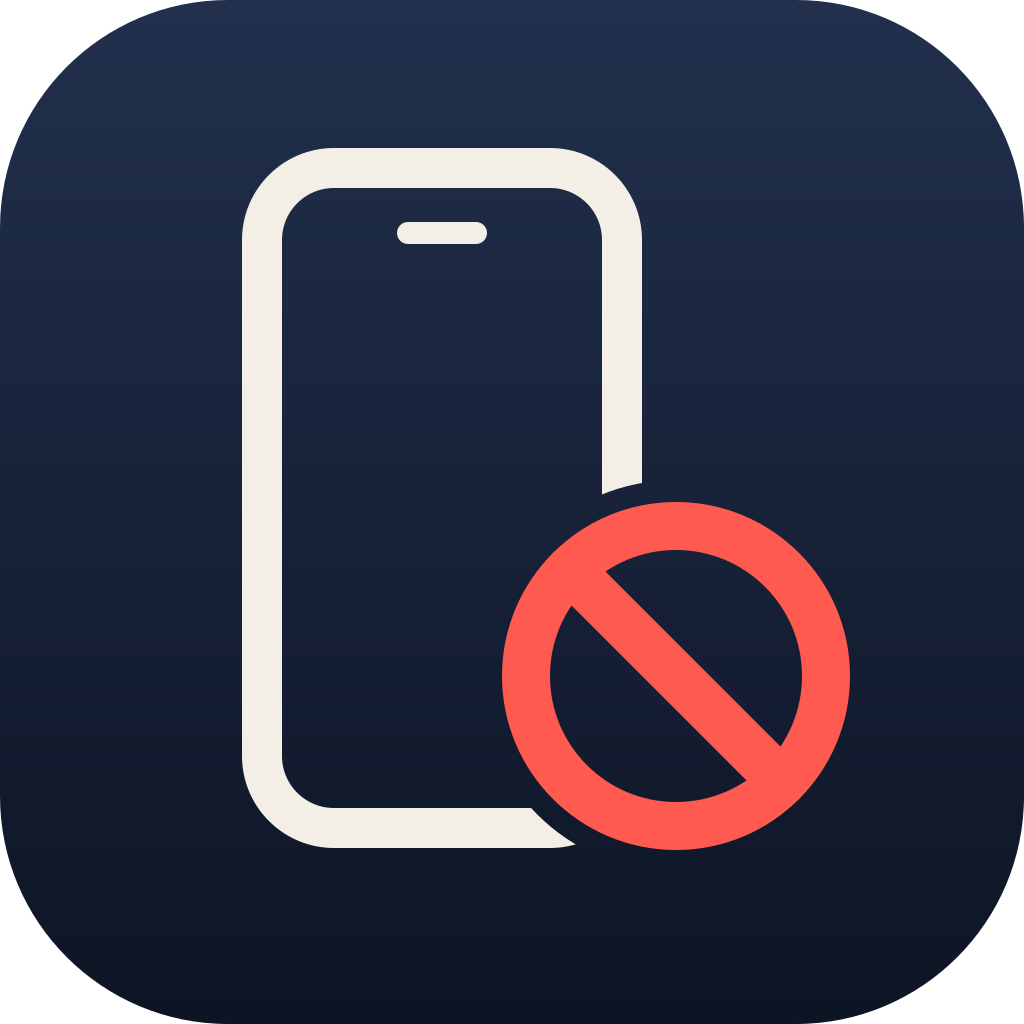
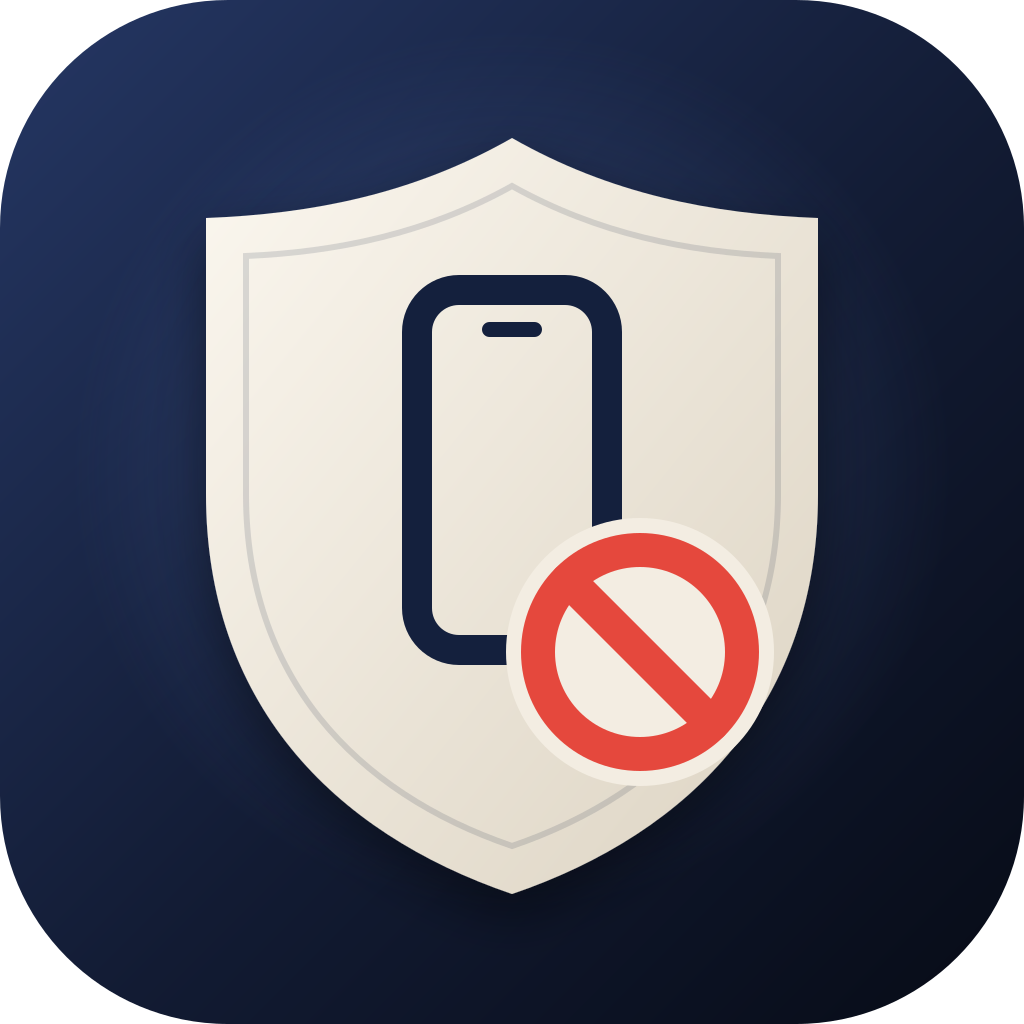
README nuevo, icono con escudo, diagrama y captura de la pantalla de suspendido

diff --git a/README.md b/README.md
@@ -1,41 +1,110 @@
 <p align="center">
-  <img src="assets/icon.svg" width="128" height="128" alt="Icono de NonGrata: un iPhone con la señal de prohibido">
+  <img src="assets/icon.svg" width="140" height="140" alt="Icono de NonGrata: un escudo con un iPhone y la señal de prohibido">
 </p>
 
-# NonGrata
+<h1 align="center">NonGrata</h1>
 
-Baneo por dispositivo y por cuenta de Apple para apps iOS, sin tocar el backend de la app.
+<p align="center">
+  <strong>Baneo por dispositivo y por cuenta de Apple para apps iOS.</strong><br>
+  Quien ya no es bienvenido no vuelve a entrar, aunque reinstale, cree otra cuenta o borre el iPhone.
+</p>
 
-Cuando alguien crea cuentas en cadena (cierra sesión y abre otra, reinstala, borra el iPhone),
-banear la cuenta no basta. NonGrata recuerda el dispositivo con varias capas que sobreviven a
-cosas distintas: el `identifierForVendor`, un identificador propio en el Keychain, el usuario de
-iCloud y los dos bits de [DeviceCheck](https://developer.apple.com/documentation/devicecheck) que
-Apple guarda en sus servidores, que sobreviven incluso a borrar el iPhone.
+<p align="center">
+  <img src="https://img.shields.io/badge/Swift-6-F05138?logo=swift&logoColor=white" alt="Swift 6">
+  <img src="https://img.shields.io/badge/iOS-17%2B-000000?logo=apple&logoColor=white" alt="iOS 17 o superior">
+  <img src="https://img.shields.io/badge/SPM-compatible-14203D" alt="Swift Package Manager">
+  <img src="https://img.shields.io/badge/Cloudflare-Workers%20%2B%20D1-F38020?logo=cloudflare&logoColor=white" alt="Cloudflare Workers y D1">
+  <a href="https://github.com/WilderLopez/nongrata/tags"><img src="https://img.shields.io/github/v/tag/WilderLopez/nongrata?label=versi%C3%B3n&color=E5483D" alt="Versión"></a>
+  <a href="LICENSE"><img src="https://img.shields.io/badge/licencia-MIT-3E63B8" alt="Licencia MIT"></a>
+</p>
 
-Tres piezas:
+<p align="center">
+  <a href="#cómo-funciona">Cómo funciona</a> ·
+  <a href="#inicio-rápido">Inicio rápido</a> ·
+  <a href="#uso-en-la-app">Uso en la app</a> ·
+  <a href="#administración">Administración</a> ·
+  <a href="#documentación">Documentación</a>
+</p>
 
-| Pieza | Qué es |
+---
+
+## El problema
+
+Alguien abusa de tu app, lo baneas y a los dos días vuelve con otra cuenta. Cierra sesión y abre
+otra, reinstala la app, borra el iPhone. Banear la cuenta no basta, y la IP o el correo tampoco
+sirven: las IPs las comparten cientos de usuarios de un mismo operador y los correos son
+desechables.
+
+NonGrata recuerda **el dispositivo y la cuenta de Apple**, con varias capas que sobreviven a cosas
+distintas. La más fuerte son los dos bits de
+[DeviceCheck](https://developer.apple.com/documentation/devicecheck) que Apple guarda en sus
+servidores para cada dispositivo, y que siguen ahí incluso después de borrar el iPhone.
+
+## Cómo funciona
+
+<p align="center">
+  <img src="assets/como-funciona.svg" alt="La app manda hashes y tokens al Worker, que consulta su lista en D1 y el bit0 de DeviceCheck y responde ok o blocked. Cuatro capas: idfv sobrevive a cerrar sesión, installId a reinstalar, iCloud a borrar el iPhone y bit0 a borrar el iPhone y cambiar de cuenta de Apple.">
+</p>
+
+Son cuatro piezas en un mismo repo:
+
+| Pieza | Qué hace |
 |---|---|
-| SDK Swift (`NonGrata`, `NonGrataUI`) | Paquete SPM para iOS 17+. Comprueba el dispositivo y devuelve `allowed`, `blocked(ref:)` o `unknown`. `NonGrataUI` es opcional: la pantalla de suspendido. |
-| Worker (`worker/`) | Cloudflare Worker con D1. Decide con la lista de baneos y con DeviceCheck. Un despliegue por app. |
-| CLI (`cli/`) | Banear, desbanear y consultar desde la terminal. |
+| **SDK Swift** (`NonGrata`) | Reúne los identificadores, los convierte en hashes y pregunta al Worker. Recuerda el veredicto aunque no haya red. |
+| **Pantalla opcional** (`NonGrataUI`) | La pantalla de "Acceso suspendido" con el código de soporte, en español e inglés. |
+| **Worker** (`worker/`) | Un Cloudflare Worker con D1 por app. Decide con su lista y con DeviceCheck. |
+| **CLI** (`cli/`) | Banear, desbanear y consultar desde la terminal. |
 
-Solo viajan hashes (`SHA256(prefijo:tipo:valor)`); ni el Worker ni la base guardan
-identificadores en bruto ni IPs.
+## Por qué así
 
-## Cómo se usa
+- **Privado por diseño.** Solo viajan hashes (`SHA256(prefijo:tipo:valor)`). Ni el Worker ni la
+  base guardan identificadores en bruto ni IPs, y el uso antifraude no es tracking: no hace falta
+  pedir el permiso de ATT.
+- **Fail-open.** Si la red o Apple fallan, el usuario entra. Nadie se queda fuera por un error
+  del sistema. La excepción es crear una cuenta: con el modo estricto (`strictSignup`, activado
+  por defecto) el registro exige una respuesta del Worker.
+- **Modo observación.** Al desplegar, el Worker solo registra lo que bloquearía. Revisas los datos
+  y activas el bloqueo cuando te fíes, sin publicar otra versión de la app.
+- **Se propaga solo.** Cuando un dispositivo sale bloqueado, el Worker añade sus identificadores
+  nuevos a la lista. Con `useICloud`, si el actor usa la misma cuenta de Apple en otro iPhone,
+  también cae.
+- **Desbaneo con un código.** El usuario ve un código de soporte de 8 caracteres. Con él lo
+  desbaneas por completo desde la terminal.
+- **Sin servidores que mantener.** Cloudflare Workers y D1; el plan gratuito sobra para empezar.
+- **Independiente de tu backend.** No hay que tocar el servidor de la app.
+- **Probado a fondo.** Tests en los tres componentes y mutation testing con Stryker: Worker
+  99,5 % y CLI 100 % de mutantes muertos.
 
-### 1. Desplegar el Worker de tu app
+## La pantalla de suspendido
 
-Necesitas una cuenta de Cloudflare (el plan gratuito sirve para empezar) y, para DeviceCheck, una
-clave con DeviceCheck activado del portal de Apple Developer (Certificates, IDs & Profiles →
-Keys).
+<p align="center">
+  <img src="assets/suspendido.png" width="560" alt="Pantalla de acceso suspendido de NonGrataUI en modo claro y oscuro, con el código de soporte 7F3A9C21 y un botón de contactar con soporte">
+</p>
+
+Es opcional: si prefieres la tuya, lee `nonGrata.verdict`. La de `NonGrataUI` cubre la app solo
+cuando hay un bloqueo, se retira sola al desbanear, deja copiar el código y funciona con
+VoiceOver y Dynamic Type.
+
+## Requisitos
+
+| | |
+|---|---|
+| App | iOS 17 o superior, Swift 6 |
+| Servidor | Una cuenta de Cloudflare (Workers y D1) |
+| Apple | Una clave con DeviceCheck activado, del portal de Apple Developer (Certificates, IDs & Profiles → Keys) |
+| Opcional | iCloud con CloudKit y key-value storage en el App ID, para la capa de iCloud (`useICloud`) |
+| Desarrollo | Node 22.18 o superior, pnpm y Xcode |
+
+## Inicio rápido
+
+### 1. Despliega el Worker de tu app
 
 ```sh
+git clone https://github.com/WilderLopez/nongrata.git && cd nongrata
 make install
 cp -r deployments/example deployments/<tu-app>      # git ignora esta carpeta
 cd worker
-pnpm exec wrangler d1 create nongrata-<tu-app>   # pon el database_id en tu wrangler.jsonc
+pnpm exec wrangler d1 create nongrata-<tu-app>       # copia el database_id a tu wrangler.jsonc
 ```
 
 Edita `deployments/<tu-app>/wrangler.jsonc` (nombre, `HASH_PREFIX_<APP>`, Team ID y Key ID) y,
@@ -48,62 +117,107 @@ pnpm exec wrangler secret put APPLE_DC_KEY_P8_<APP> --config ../deployments/<tu-
 pnpm exec wrangler deploy --config ../deployments/<tu-app>/wrangler.jsonc
 ```
 
-Empieza en modo observación (`ENFORCE_<APP> = "false"`): registra lo que bloquearía, pero deja
-entrar a todo el mundo. Detalle en [Cloudflare Worker y D1](docs/conceptos/cloudflare-worker-y-d1.md).
+Arranca en modo observación (`ENFORCE_<APP> = "false"`). Más detalle en
+[Cloudflare Worker y D1](docs/conceptos/cloudflare-worker-y-d1.md).
 
-### 2. Añadir el SDK a la app
+### 2. Añade el paquete
 
-En Xcode, File → Add Package Dependencies… con la URL de este repo, desde la versión `0.1.0`.
+En Xcode: **File → Add Package Dependencies…** con `https://github.com/WilderLopez/nongrata.git`,
+desde `0.1.0`. O en tu `Package.swift`:
 
 ```swift
-import NonGrata
-
-let nonGrata = NonGrata(configuration: .init(
-    endpoint: URL(string: "https://nongrata-myapp.<tu-subdominio>.workers.dev/v1/device/check")!,
-    appId: "myapp",
-    hashPrefix: "myapp-ban-v1"   // igual que HASH_PREFIX_MYAPP del Worker
-))
-
-let verdict = await nonGrata.check(intent: .launch)
+.package(url: "https://github.com/WilderLopez/nongrata.git", from: "0.1.0")
 ```
 
-Cuándo comprobar, qué hacer con cada veredicto, capacidades y privacidad:
+Productos: `NonGrata` (obligatorio) y `NonGrataUI` (la pantalla, opcional).
+
+## Uso en la app
+
+```swift
+import SwiftUI
+import NonGrata
+import NonGrataUI
+
+@main
+struct MyApp: App {
+    @State private var nonGrata = NonGrata(configuration: .init(
+        endpoint: URL(string: "https://nongrata-myapp.<tu-subdominio>.workers.dev/v1/device/check")!,
+        appId: "myapp",
+        hashPrefix: "myapp-ban-v1"   // igual que HASH_PREFIX_MYAPP del Worker
+    ))
+    @Environment(\.scenePhase) private var scenePhase
+
+    var body: some Scene {
+        WindowGroup {
+            ContentView()
+                .nonGrataBlockingOverlay(nonGrata) { ref in
+                    Link("Contactar con soporte",
+                         destination: URL(string: "mailto:soporte@example.com?subject=\(ref)")!)
+                }
+                .task { await nonGrata.check(intent: .launch) }
+        }
+        .onChange(of: scenePhase) { _, fase in
+            if fase == .active { Task { await nonGrata.check(intent: .foreground) } }
+        }
+    }
+}
+```
+
+Tras el login, `check(intent: .login, userId: user.id)`. Antes de crear una cuenta:
+
+```swift
+let verdict = await nonGrata.check(intent: .signup)
+guard nonGrata.permits(verdict, for: .signup) else { return }   // bloqueado o, en estricto, sin respuesta
+createAccount()
+```
+
+Todo lo demás (capacidades, Keychain, analítica, privacidad en App Store Connect) está en
 [Integrar en una app iOS](docs/INTEGRATION-IOS.md).
 
-### 3. Banear y desbanear
+## Administración
 
 ```sh
 export NONGRATA_URL_MYAPP=https://nongrata-myapp.<tu-subdominio>.workers.dev
 export NONGRATA_ADMIN_TOKEN_MYAPP=<tu ADMIN_TOKEN>
+
 pnpm ng ban    app=myapp kind=idfv value=<IDFV> note="spam"
-pnpm ng unban  app=myapp ref=A1B2C3D4      # el código de soporte que ve el usuario
-pnpm ng help
+pnpm ng lookup app=myapp ref=7F3A9C21     # qué se sabe de ese código de soporte
+pnpm ng unban  app=myapp ref=7F3A9C21     # desbaneo completo en su próxima comprobación
+pnpm ng hash   prefix=myapp-ban-v1 kind=idfv value=<IDFV>   # el hash, sin red
 ```
+
+## Lo que no hace
+
+- **No impide que alguien modifique la app** para saltarse la comprobación. App Attest cerraría
+  ese hueco y está previsto como opcional.
+- **No es un antifraude completo.** Es un muro para quien ya has decidido banear; detectar a
+  quién banear es cosa tuya.
+- **No funciona en el simulador** la parte de DeviceCheck: hay que probar en un iPhone.
+- **Android** está esbozado en el diseño, no implementado.
 
 ## Documentación
 
-- [Diseño completo](docs/HANDOFF.md): problema, arquitectura, contrato, algoritmo, riesgos y lo
-  que queda por verificar.
+- [Diseño completo](docs/HANDOFF.md): el problema, la arquitectura, el contrato, el algoritmo,
+  los riesgos y lo que queda por verificar.
 - [Integrar en una app iOS](docs/INTEGRATION-IOS.md).
-- [Glosario](docs/glosario.md) y notas de conceptos en [`docs/conceptos/`](docs/conceptos/).
+- Conceptos: [identificadores](docs/conceptos/identificadores.md),
+  [DeviceCheck](docs/conceptos/devicecheck.md), [hash y ref](docs/conceptos/hash-y-ref.md),
+  [flujo de una comprobación](docs/conceptos/flujo-de-check.md),
+  [propagación](docs/conceptos/propagacion.md),
+  [fail-open y modo observación](docs/conceptos/fail-open-y-observacion.md) y el
+  [glosario](docs/glosario.md).
 
 ## Desarrollo
 
-Solo con pnpm (`packageManager` fija la versión). Node 22.18 o superior y Xcode con Swift 6.
-
 ```sh
-make install   # dependencias
-make check     # docs, tipos, tests de Worker, CLI y SDK, build de iOS y mutation testing
+make install   # dependencias (solo pnpm)
+make check     # documentación, tipos, tests de Worker, CLI y SDK, build de iOS y mutation testing
 ```
 
-Los tests del Worker corren dentro de `workerd`; los de Swift, con `swift test` desde la raíz.
-
-## Estado
-
-Versión 0.1.0. Falta App Attest (opcional) y Android está esbozado, no diseñado. Ver la
-sección 16 del [diseño](docs/HANDOFF.md) para lo que aún no está confirmado en la documentación
-de Apple o Cloudflare.
+Los tests del Worker corren dentro de `workerd` y no llaman a Apple; los de Swift, con
+`swift test` desde la raíz. Antes de dar algo por terminado, `make check` tiene que quedar en
+verde.
 
 ## Licencia
 
-[MIT](LICENSE).
+[MIT](LICENSE). El nombre viene de *persona non grata*: alguien que ya no es bienvenido.
